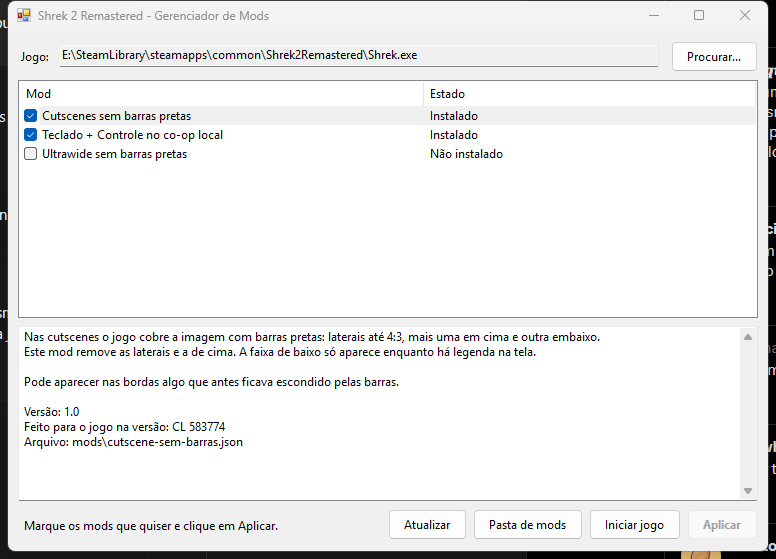
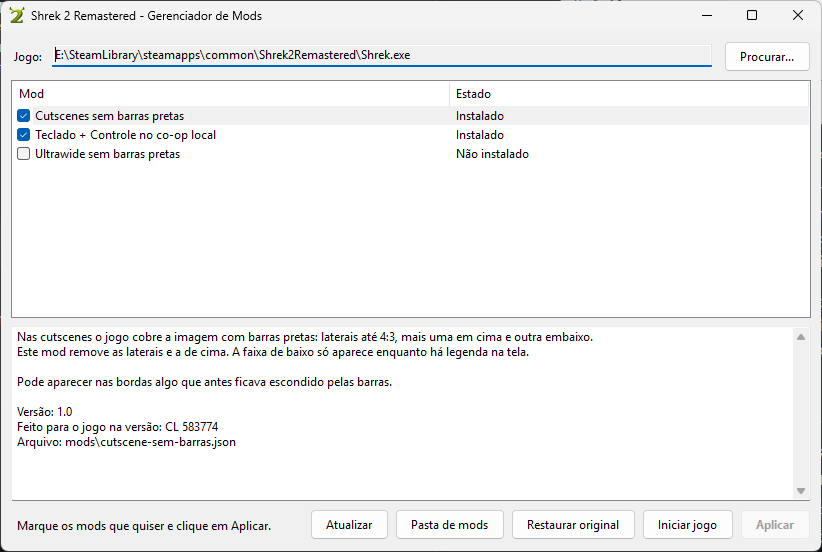
docs: add English README, mods guide and third-party risk notice

Changed region(s): [[0.0, 0.0, 1.0, 1.0], [0.8969, 0.0, 0.9278, 0.0308], [0.8351, 0.0, 0.866, 0.0308]]

diff --git a/README.en.md b/README.en.md
@@ -1,0 +1,197 @@
+<div align="center">
+
+<img src="assets/images/readme/icon.png" alt="Shrek2ModManager icon" width="110" />
+
+<h1>Shrek2ModManager</h1>
+
+<p>Mod manager for Shrek 2 Remastered (Steam version).<br/>
+Tick the mods you want, click Apply, and you are done.</p>
+
+<p><a href="README.md">Português</a> · <strong>English</strong></p>
+
+<p>
+  <a href="https://github.com/gabrielfernandesdelara/Shrek2ModManager/issues/new">Report a bug</a>
+  ·
+  <a href="https://github.com/gabrielfernandesdelara/Shrek2ModManager/issues/new">Suggest a feature</a>
+</p>
+
+<p>
+  <img src="https://img.shields.io/badge/status-in%20development-yellow?style=for-the-badge" alt="Status" />
+  <img src="https://img.shields.io/github/last-commit/gabrielfernandesdelara/Shrek2ModManager?style=for-the-badge&label=last%20commit" alt="Last commit" />
+</p>
+
+</div>
+
+---
+
+<details>
+  <summary><strong>Table of contents</strong></summary>
+
+- [About the project](#about-the-project)
+- [Features](#features)
+- [Official mods](#official-mods)
+- [How to add/create mods](#how-to-addcreate-mods)
+- [Tech stack](#tech-stack)
+- [How to build and run](#how-to-build-and-run)
+- [Folder structure](#folder-structure)
+- [Legal notice](#legal-notice)
+- [Author](#author)
+
+</details>
+
+## About the project
+
+<div align="center">
+  <img src="assets/images/readme/screenshot.png" alt="Shrek2ModManager window" width="80%" />
+  <p><sub><em>Main window, shown here in Portuguese. The interface follows the Windows language and is also available in English.</em></sub></p>
+</div>
+
+The Shrek 2 Remastered mods in this project work by changing a few bytes of `Shrek.exe`. Doing that with `.bat` and `.ps1` scripts is awkward for whoever installs them, and automated filters on mod sites often block those files. Shrek2ModManager replaces the scripts with a simple window: it finds the game through Steam, shows the list of mods with checkboxes, and installs or removes each one with a click.
+
+Each mod is a `.json` file in the `mods` folder, holding the address of each patched spot, the original bytes and the new bytes. The program downloads nothing, never goes online and ships no game files: it only changes the `Shrek.exe` already installed on the computer, after saving a copy of the original.
+
+## Features
+
+- Finds `Shrek.exe` automatically through the Steam libraries, with an option to pick it manually
+- Installs and removes mods independently: removing one mod leaves the others in place
+- Saves the original executable as `Shrek.exe.original` before the first change
+- "Restore original" button, which puts the backup back and removes every mod at once
+- Checks the bytes before writing: on another game version the mod shows as not compatible and nothing is changed
+- Warns when two mods change the same part of the game and does not let you tick both
+- Does not apply changes while the game is running
+- Remembers the installed mods and offers to reinstall them when a Steam update or file verification undoes the patches
+- Interface in **English and Portuguese**, chosen from the Windows language
+- Small executable, no installer and no dependencies besides the .NET Framework 4.8 that ships with Windows 10 and 11
+
+## Official mods
+
+The project comes with **3 official mods**, made for the Steam version of the game (build CL 583774):
+
+| Mod | What it does |
+|---|---|
+| Keyboard + Controller local co-op | The keyboard stops sharing Player 1 with the first controller and can join as another player |
+| Cutscenes without black bars | Removes the side and top bars in cutscenes; the bottom strip only shows while a subtitle is on screen |
+| Ultrawide without black bars | On screens wider than 16:9, the 3D scene fills the whole width without stretching the picture |
+
+## How to add/create mods
+
+> **Warning: use third-party mods at your own risk.**
+> Only the official mods, the ones in the `mods` folder of this repository, have been reviewed and are considered safe. A mod tells the program which bytes to write into the game executable, so a malicious mod can put harmful code inside `Shrek.exe`. Shrek2ModManager checks the game version, makes a backup and warns about conflicts, but it cannot tell whether the bytes of a mod do something bad. Only install mods from sources you trust.
+
+### Using a mod made by someone else
+
+1. Put the mod's `.json` file in the `mods` folder, next to `Shrek2ModManager.exe`.
+2. Click "Refresh". The mod shows up in the list.
+3. Tick its checkbox and click "Apply".
+
+There is no need to change the program or ask for permission: any `.json` in the right format is recognised. If something goes wrong, the "Restore original" button puts the game back the way it was.
+
+### Creating a mod
+
+A mod is a `.json` file in this format:
+
+```json
+{
+  "id": "ultrawide",
+  "name": { "en": "Ultrawide without black bars", "pt": "Ultrawide sem barras pretas" },
+  "description": { "en": "...", "pt": "..." },
+  "version": "1.0",
+  "gameBuild": "CL 583774",
+  "patches": [
+    { "rva": "0x244984", "note": "what this spot does", "original": "8bf8", "patched": "33ff" }
+  ]
+}
+```
+
+- `id` is a unique name for the mod, without spaces.
+- `name` and `description` take one text per language (`en`, `pt`) or a single text.
+- `rva` is the address of the spot inside the executable.
+- `original` and `patched` are the bytes in hexadecimal and must have the same length.
+- The mod is only installed if every spot holds the `original` bytes. This prevents applying a mod to the wrong game version.
+
+Writing the `.json` is the easy part. The work is in finding out which bytes to change, which takes reverse engineering of `Shrek.exe`: locating the right function, understanding the code and building the patch. The game ships with the `shrek.pdb` symbol file, which contains the function names and helps a lot with that analysis.
+
+For now the format only covers mods that change bytes of `Shrek.exe`. Mods that replace game files, such as textures, models or sounds, are not supported yet.
+
+### Proposing a mod for the official list
+
+Nobody but the author can change this repository directly. To suggest an official mod, open a pull request adding the `.json` to the `mods` folder and explain what each patch does. The mod is only added after it has been reviewed and approved.
+
+## Tech stack
+
+<p>
+  <img src="https://img.shields.io/badge/C%23-512BD4?style=for-the-badge&logo=dotnet&logoColor=white" alt="C#" />
+  <img src="https://img.shields.io/badge/.NET%20Framework%204.8-512BD4?style=for-the-badge&logo=dotnet&logoColor=white" alt=".NET Framework 4.8" />
+  <img src="https://img.shields.io/badge/Windows%20Forms-0078D4?style=for-the-badge&logoColor=white" alt="Windows Forms" />
+  <img src="https://img.shields.io/badge/JSON-000000?style=for-the-badge&logo=json&logoColor=white" alt="JSON" />
+</p>
+
+| Technology | Use |
+|---|---|
+| C# 5 | All of the program's code |
+| .NET Framework 4.8 | Runtime, already present on Windows 10 and 11 |
+| Windows Forms | Window, mod list and buttons |
+| JSON | Format of the mod files and of the user preferences |
+
+## How to build and run
+
+You do not need Visual Studio or an SDK: `build.bat` uses the C# compiler (`csc.exe`) that ships with Windows.
+
+```bash
+# 1. Clone the repository
+git clone https://github.com/gabrielfernandesdelara/Shrek2ModManager.git
+
+# 2. Enter the folder
+cd Shrek2ModManager
+
+# 3. Build (creates dist\Shrek2ModManager.exe and copies the mods to dist\mods)
+build.bat
+
+# 4. Open the program
+dist\Shrek2ModManager.exe
+```
+
+After applying the mods, start the game through Steam or the "Start game" button. The game does not open when `Shrek.exe` is run directly.
+
+The file `tests\EngineTests.cs` tests the patch engine without the window. It takes the `mods` folder and the path to a **copy** of the original `Shrek.exe`, and only ever works on that copy.
+
+## Folder structure
+
+```
+Shrek2ModManager/
+├── build.bat              # Builds the program with the Windows csc.exe
+├── mods/                  # One .json file per official mod
+│   ├── cutscene-sem-barras.json
+│   ├── teclado-controle.json
+│   └── ultrawide.json
+├── src/
+│   ├── Program.cs         # Entry point
+│   ├── MainForm.cs        # Window: list, description and buttons
+│   ├── PatchEngine.cs     # Reads and writes the Shrek.exe bytes, backup
+│   ├── ModLoader.cs       # Reads the .json files
+│   ├── SteamLocator.cs    # Finds the game through the Steam libraries
+│   ├── Settings.cs        # Preferences saved in %AppData%
+│   ├── Texts.cs           # Texts in Portuguese and English
+│   ├── app.ico            # Program icon
+│   └── app.manifest       # Runs without administrator rights, supports scaled displays
+├── tests/
+│   └── EngineTests.cs     # Patch engine tests
+└── assets/images/readme/  # README images
+```
+
+## Legal notice
+
+This is a personal project and is **not affiliated** with DreamWorks Animation or with the companies behind Shrek 2 Remastered. All rights to the game, its names, logos and images belong to their respective owners. No game files are distributed in this repository.
+
+The program is provided as is, without warranty. Using mods, official or third-party, is the responsibility of whoever installs them.
+
+## Author
+
+<p>
+  Developed by <strong>Gabriel Fernandes de Lara</strong>
+</p>
+
+<p>
+  <a href="https://www.linkedin.com/in/gabrielfernandesdelara/"><img src="https://img.shields.io/badge/LinkedIn-0A66C2?style=for-the-badge&logo=linkedin&logoColor=white" alt="LinkedIn" /></a>
+  <a href="https://github.com/gabrielfernandesdelara"><img src="https://img.shields.io/badge/GitHub-181717?style=for-the-badge&logo=github&logoColor=white" alt="GitHub" /></a>
+</p>

diff --git a/README.md b/README.md
@@ -1,9 +1,13 @@
 <div align="center">
 
+<img src="assets/images/readme/icon.png" alt="Ícone do Shrek2ModManager" width="110" />
+
 <h1>Shrek2ModManager</h1>
 
 <p>Gerenciador de mods para o Shrek 2 Remastered (versão Steam).<br/>
 Marque os mods que quiser, clique em Aplicar e pronto.</p>
+
+<p><strong>Português</strong> · <a href="README.en.md">English</a></p>
 
 <p>
   <a href="https://github.com/gabrielfernandesdelara/Shrek2ModManager/issues/new">Reportar um bug</a>
@@ -25,12 +29,11 @@ Marque os mods que quiser, clique em Aplicar e pronto.</p>
 
 - [Sobre o projeto](#sobre-o-projeto)
 - [Funcionalidades](#funcionalidades)
-- [Mods inclusos](#mods-inclusos)
+- [Mods oficiais](#mods-oficiais)
+- [Como adicionar/criar mods](#como-adicionarcriar-mods)
 - [Tecnologias](#tecnologias)
 - [Como compilar e rodar](#como-compilar-e-rodar)
-- [Formato de um mod](#formato-de-um-mod)
 - [Estrutura de pastas](#estrutura-de-pastas)
-- [Roadmap](#roadmap)
 - [Aviso legal](#aviso-legal)
 - [Autor](#autor)
 
@@ -52,22 +55,67 @@ Cada mod é um arquivo `.json` na pasta `mods`, contendo o endereço de cada tre
 - Localiza o `Shrek.exe` automaticamente pelas bibliotecas da Steam, com opção de selecionar manualmente
 - Instala e remove mods de forma independente: tirar um mod não desfaz os outros
 - Salva o executável original como `Shrek.exe.original` antes da primeira alteração
+- Botão "Restaurar original", que coloca o backup de volta e remove todos os mods de uma vez
 - Confere os bytes antes de gravar: se o jogo for de outra versão, o mod aparece como incompatível e nada é alterado
 - Avisa quando dois mods mexem no mesmo trecho do jogo e não deixa marcar os dois juntos
 - Não aplica mudanças com o jogo aberto
 - Lembra os mods instalados e oferece reinstalar quando uma atualização da Steam ou a verificação de arquivos desfaz os patches
 - Interface em **português e inglês**, escolhida pelo idioma do Windows
-- Executável de cerca de **32 KB**, sem instalador e sem dependências além do .NET Framework 4.8 que já vem no Windows 10 e 11
+- Executável pequeno, sem instalador e sem dependências além do .NET Framework 4.8 que já vem no Windows 10 e 11
 
-## Mods inclusos
+## Mods oficiais
 
-O projeto vem com **3 mods**, feitos para a versão Steam do jogo (build CL 583774):
+O projeto vem com **3 mods oficiais**, feitos para a versão Steam do jogo (build CL 583774):
 
 | Mod | O que faz |
 |---|---|
 | Teclado + Controle no co-op local | O teclado deixa de dividir o Jogador 1 com o primeiro controle e pode entrar como outro jogador |
 | Cutscenes sem barras pretas | Remove as barras laterais e a de cima nas cutscenes; a faixa de baixo só aparece quando há legenda |
 | Ultrawide sem barras pretas | Em telas mais largas que 16:9, a cena 3D ocupa a largura toda, sem esticar a imagem |
+
+## Como adicionar/criar mods
+
+> **Aviso: use mods de terceiros por sua conta e risco.**
+> Somente os mods oficiais, que estão na pasta `mods` deste repositório, foram revisados e são considerados seguros. Um mod diz ao programa quais bytes gravar no executável do jogo, então um mod mal-intencionado pode colocar código nocivo dentro do `Shrek.exe`. O Shrek2ModManager confere a versão do jogo, faz backup e avisa conflitos, mas não tem como saber se os bytes de um mod fazem algo ruim. Só instale mods de fontes em que você confia.
+
+### Usar um mod feito por outra pessoa
+
+1. Coloque o arquivo `.json` do mod na pasta `mods`, ao lado do `Shrek2ModManager.exe`.
+2. Clique em "Atualizar". O mod aparece na lista.
+3. Marque a caixinha e clique em "Aplicar".
+
+Não é preciso alterar o programa nem pedir autorização: qualquer `.json` no formato certo é reconhecido. Se algo der errado, o botão "Restaurar original" coloca o jogo de volta como estava.
+
+### Criar um mod
+
+Um mod é um arquivo `.json` neste formato:
+
+```json
+{
+  "id": "ultrawide",
+  "name": { "en": "Ultrawide without black bars", "pt": "Ultrawide sem barras pretas" },
+  "description": { "en": "...", "pt": "..." },
+  "version": "1.0",
+  "gameBuild": "CL 583774",
+  "patches": [
+    { "rva": "0x244984", "note": "o que este trecho faz", "original": "8bf8", "patched": "33ff" }
+  ]
+}
+```
+
+- `id` é um nome único para o mod, sem espaços.
+- `name` e `description` aceitam um texto por idioma (`en`, `pt`) ou um texto só.
+- `rva` é o endereço do trecho dentro do executável.
+- `original` e `patched` são os bytes em hexadecimal e precisam ter o mesmo tamanho.
+- O mod só é instalado se todos os trechos estiverem com os bytes de `original`. Isso evita aplicar um mod na versão errada do jogo.
+
+Escrever o `.json` é a parte fácil. O trabalho está em descobrir quais bytes trocar, o que exige engenharia reversa do `Shrek.exe`: achar a função certa, entender o código e montar o patch. O jogo é distribuído com o arquivo de símbolos `shrek.pdb`, que traz o nome das funções e ajuda bastante nessa análise.
+
+Hoje o formato cobre apenas mods que trocam bytes do `Shrek.exe`. Mods que substituem arquivos do jogo, como texturas, modelos ou sons, ainda não são suportados.
+
+### Propor um mod para a lista oficial
+
+Ninguém além do autor consegue alterar este repositório diretamente. Para sugerir um mod oficial, abra um *pull request* adicionando o `.json` na pasta `mods` e explique o que cada patch faz. O mod só entra depois de revisado e aprovado.
 
 ## Tecnologias
 
@@ -107,65 +155,35 @@ Depois de aplicar os mods, abra o jogo pela Steam ou pelo botão "Iniciar jogo".
 
 O arquivo `tests\EngineTests.cs` testa o motor de patches sem a janela. Ele recebe a pasta `mods` e o caminho de uma **cópia** do `Shrek.exe` original, e trabalha somente nessa cópia.
 
-## Formato de um mod
-
-Para criar um mod, coloque um arquivo `.json` na pasta `mods` e clique em "Atualizar":
-
-```json
-{
-  "id": "ultrawide",
-  "name": { "en": "Ultrawide without black bars", "pt": "Ultrawide sem barras pretas" },
-  "description": { "en": "...", "pt": "..." },
-  "version": "1.0",
-  "gameBuild": "CL 583774",
-  "patches": [
-    { "rva": "0x244984", "note": "o que este trecho faz", "original": "8bf8", "patched": "33ff" }
-  ]
-}
-```
-
-- `rva` é o endereço do trecho dentro do executável.
-- `original` e `patched` são os bytes em hexadecimal e precisam ter o mesmo tamanho.
-- O mod só é instalado se todos os trechos estiverem com os bytes de `original`.
-
 ## Estrutura de pastas
 
 ```
 Shrek2ModManager/
 ├── build.bat              # Compila o programa com o csc.exe do Windows
-├── mods/                  # Um arquivo .json por mod
+├── mods/                  # Um arquivo .json por mod oficial
 │   ├── cutscene-sem-barras.json
 │   ├── teclado-controle.json
 │   └── ultrawide.json
 ├── src/
 │   ├── Program.cs         # Ponto de entrada
 │   ├── MainForm.cs        # Janela: lista, descrição e botões
-│   ├── PatchEngine.cs     # Leitura e gravação dos bytes do Shrek.exe
+│   ├── PatchEngine.cs     # Leitura e gravação dos bytes do Shrek.exe e backup
 │   ├── ModLoader.cs       # Leitura dos arquivos .json
 │   ├── SteamLocator.cs    # Localiza o jogo pelas bibliotecas da Steam
 │   ├── Settings.cs        # Preferências salvas em %AppData%
 │   ├── Texts.cs           # Textos em português e inglês
+│   ├── app.ico            # Ícone do programa
 │   └── app.manifest       # Execução sem administrador e suporte a telas com escala
 ├── tests/
 │   └── EngineTests.cs     # Testes do motor de patches
 └── assets/images/readme/  # Imagens do README
 ```
 
-## Roadmap
-
-- [x] Instalar e remover mods por caixinha
-- [x] Localizar o jogo automaticamente pela Steam
-- [x] Backup do executável original
-- [x] Aviso de conflito e de versão incompatível
-- [x] Reinstalar mods desfeitos por atualização da Steam
-- [x] Interface em português e inglês
-- [ ] Ícone próprio para o programa
-- [ ] Suporte a mods para outras versões do jogo
-- [ ] Botão para restaurar o backup original
-
 ## Aviso legal
 
-Este é um projeto pessoal e **não possui afiliação** com a DreamWorks Animation nem com as empresas responsáveis pelo Shrek 2 Remastered. Todos os direitos sobre o jogo, seus nomes e imagens pertencem aos seus respectivos donos. Nenhum arquivo do jogo é distribuído neste repositório.
+Este é um projeto pessoal e **não possui afiliação** com a DreamWorks Animation nem com as empresas responsáveis pelo Shrek 2 Remastered. Todos os direitos sobre o jogo, seus nomes, logotipos e imagens pertencem aos seus respectivos donos. Nenhum arquivo do jogo é distribuído neste repositório.
+
+O programa é fornecido como está, sem garantias. O uso de mods, oficiais ou de terceiros, é de responsabilidade de quem os instala.
 
 ## Autor
 
